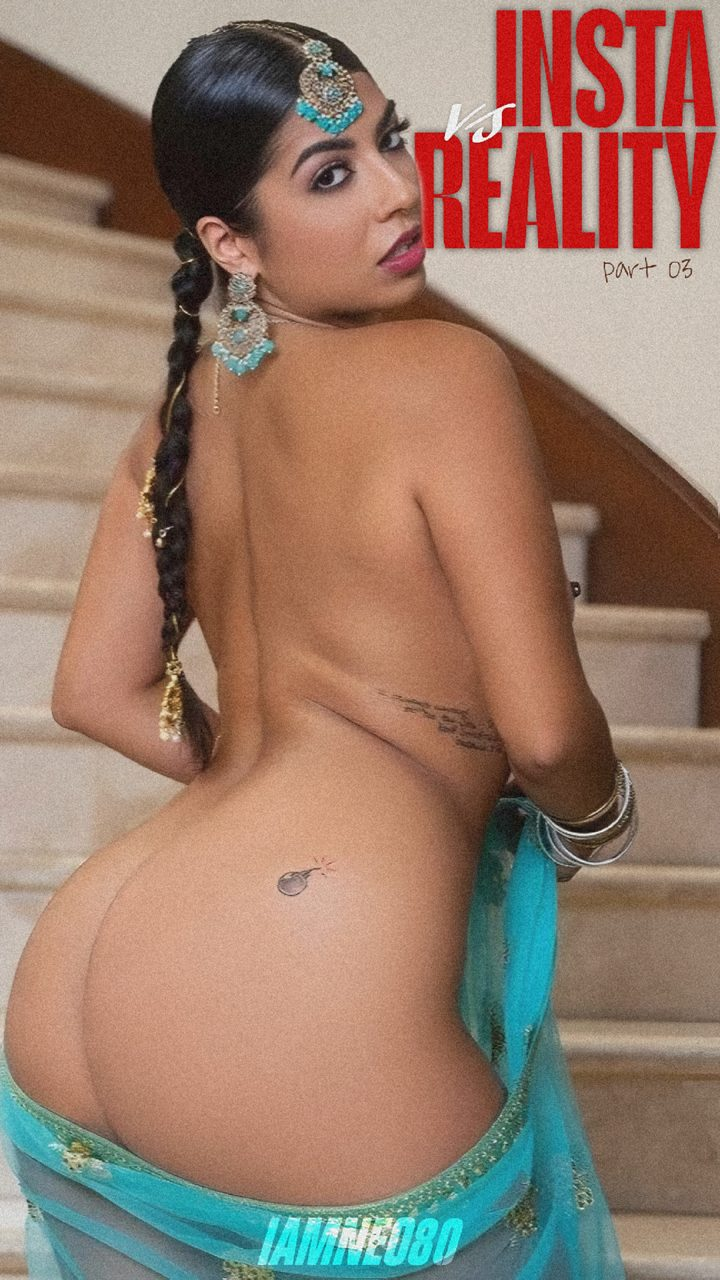
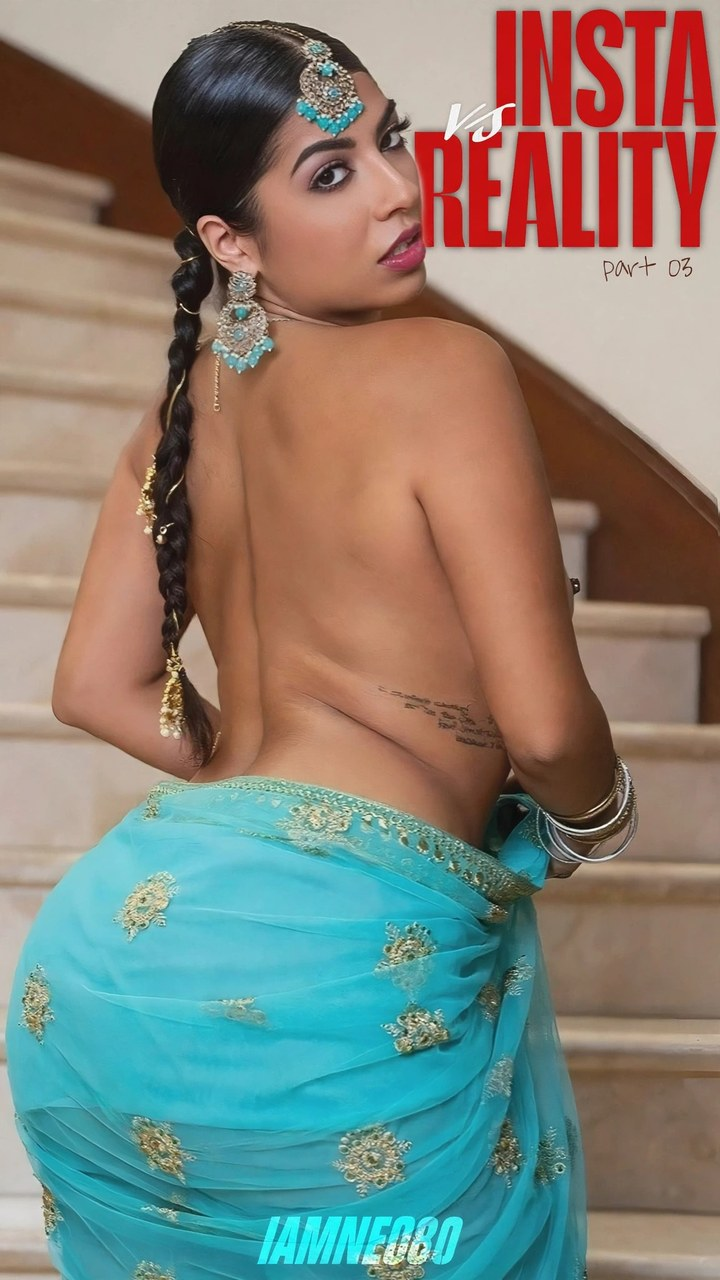
Cover Top Posts posters: part-03 saree dress, Resmi blur; sw neo-v6

diff --git a/sw.js b/sw.js
@@ -1,5 +1,5 @@
 // N E O — offline cache: pages network-first so updates show fast, assets cache-first
-var CACHE = 'neo-v5';
+var CACHE = 'neo-v6';
 var CORE = ['./', 'index.html', 'mallu.html', 'resmi-nair.html', 'insta-vs-reality.html', 'all-works.html', 'others.html',
   'photo.webp', 'photo.jpg', 'avatar.webp', 'avatar.jpg', 'favicon.png', 'apple-touch-icon.png',
   'icon-192.png', 'icon-512.png', 'top1.webp', 'top1.jpg', 'top2.webp', 'top2.jpg', 'top3.webp', 'top3.jpg', 'top4.webp', 'top4.jpg', 'top5.webp', 'top5.jpg', 'manifest.webmanifest'];
